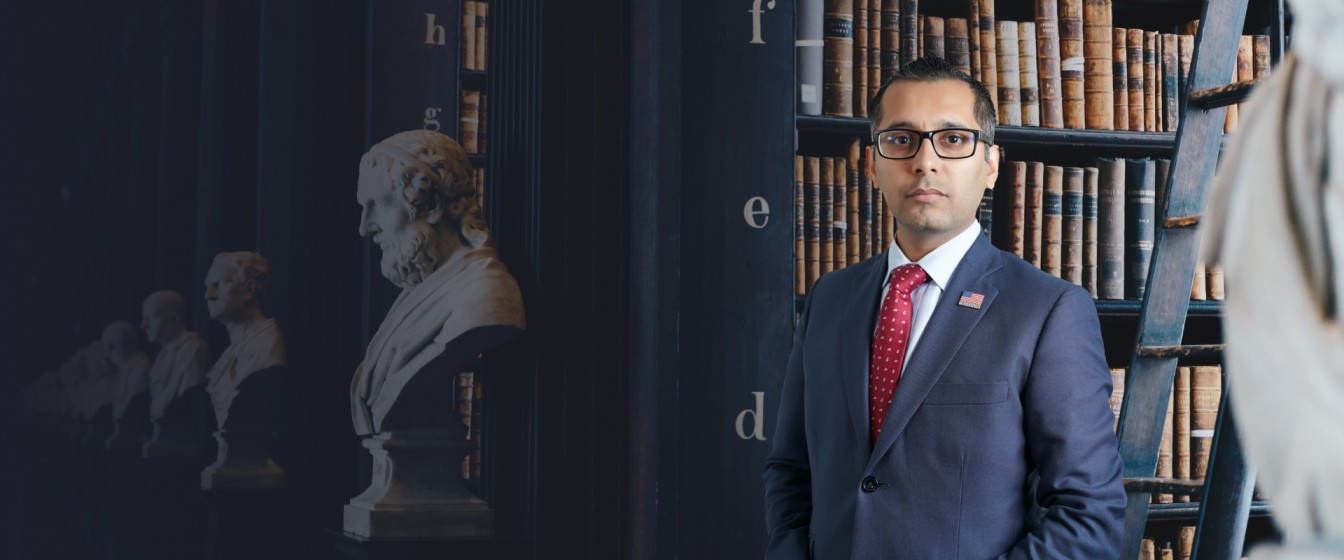
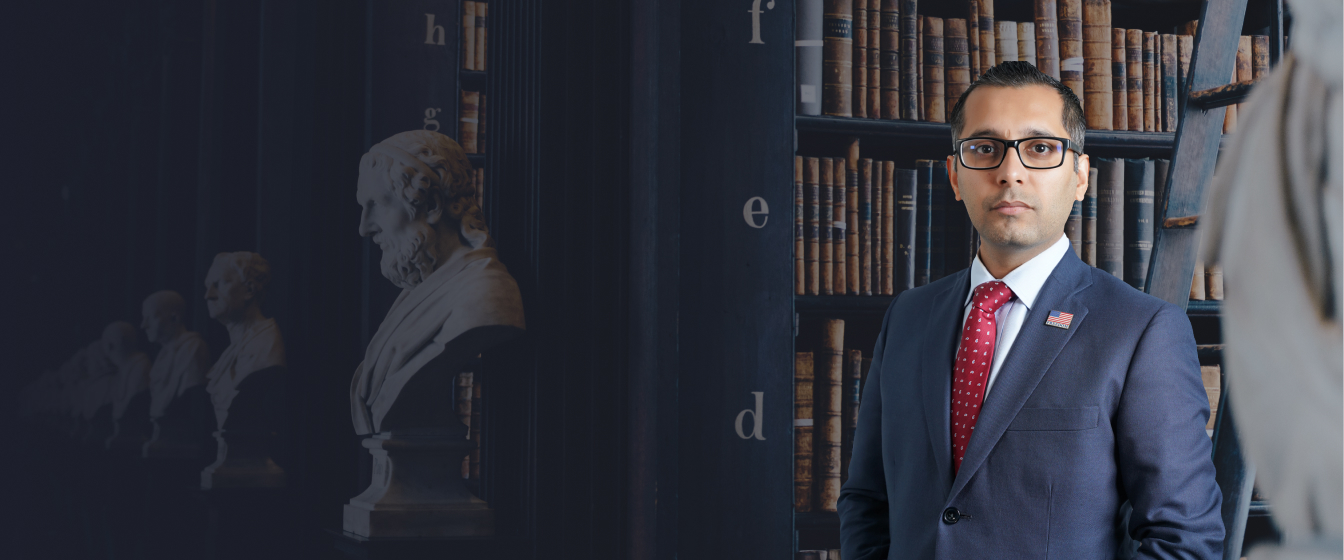
update home page

Changed region(s): [[0.5312, 0.0, 1.0, 1.0]]

diff --git a/components/about-us/AboutSection.jsx b/components/about-us/AboutSection.jsx
@@ -16,7 +16,7 @@ const AboutSection = () => {
   return (
     <div className='mt-5'>
       {/* Hardam Tripathi, Esq. */}
-      <div className='mb-[35%] md:mb-0'>
+      <div className='mb-[10%] md:mb-0'>
         <div className='relative h-[300px] lg:xl:h-[400px] xl:h-[500px] 2xl:h-[600px] md:overflow-hidden'>
           <Image
             src='/assets/about/triplaw.jpg'
@@ -56,32 +56,32 @@ const AboutSection = () => {
                       Immigration Lawyer
                     </p>
                     <hr class='h-[2px] my-0 bg-red-700 border-0 w-full'></hr>
-                    <div className='mt-8 flex flex-col md:flex-row items-center md:gap-28 gap-4 justify-center md:justify-start'>
+                    <div className='mt-8 flex flex-row items-center md:gap-28 gap-4 justify-center md:justify-start'>
                       <Link
                         href={'mailto:info@trip-law.com'}
-                        className='flex gap-3 items-center'
+                        className='flex gap-2 items-center'
                       >
-                        <MdEmail className='w-10 h-10 text-blue-600' />
-                        <p className='text-xl font-semibold text-center'>
+                        <MdEmail className='w-6 h-6 md:w-10 md:h-10 text-blue-600' />
+                        <p className='text-md md:text-xl font-semibold text-center'>
                           Email
                         </p>
                       </Link>
                       <Link
                         href={'/assets/vcard-info/hardam-tripathi.vcf'}
-                        className='flex gap-3 items-center'
+                        className='flex gap-2 items-center'
                       >
-                        <BsFillPersonVcardFill className='w-9 h-9 text-blue-600' />
-                        <p className='text-xl font-semibold text-center'>
+                        <BsFillPersonVcardFill className='w-5 h-5 md:w-9 md:h-9 text-blue-600' />
+                        <p className='text-md md:text-xl font-semibold text-center'>
                           VCard
                         </p>
                       </Link>
                       <Link
                         href={'https://www.linkedin.com/in/hardamtripathi'}
-                        className='flex md:flex-row gap-3 items-center'
+                        className='flex md:flex-row gap-2 items-center'
                         target='_blank'
                       >
-                        <FaLinkedin className='w-9 h-9 text-blue-600' />
-                        <p className='text-xl font-semibold text-center'>
+                        <FaLinkedin className='w-5 h-5 md:w-9 md:h-9 text-blue-600' />
+                        <p className='text-md md:text-xl font-semibold text-center'>
                           Connect
                         </p>
                       </Link>
@@ -184,7 +184,7 @@ const AboutSection = () => {
         </div>
       </SectionLayout>
       {/* Mukta Patel */}
-      <div className='mb-[35%] md:mb-0'>
+      <div className='mb-[10%] md:mb-0'>
         <div className='relative h-[300px] lg:xl:h-[400px] xl:h-[500px] 2xl:h-[600px] md:overflow-hidden'>
           <Image
             src='/assets/about/mukta-patel.jpg'
@@ -224,22 +224,22 @@ const AboutSection = () => {
                       Director of Legal Operation
                     </p>
                     <hr class='h-[2px] my-0 bg-red-700 border-0 w-full'></hr>
-                    <div className='mt-8 flex flex-col md:flex-row items-center md:gap-28 gap-4 justify-center md:justify-start'>
+                    <div className='mt-8 flex flex-row items-center md:gap-28 gap-4 justify-center md:justify-start'>
                       <Link
                         href={'mailto:info@trip-law.com'}
-                        className='flex gap-3 items-center'
+                        className='flex gap-2 items-center'
                       >
-                        <MdEmail className='w-10 h-10 text-blue-600' />
-                        <p className='text-xl font-semibold text-center'>
+                        <MdEmail className='w-6 h-6 md:w-10 md:h-10 text-blue-600' />
+                        <p className='text-md md:text-xl font-semibold text-center'>
                           Email
                         </p>
                       </Link>
                       <Link
                         href={'/assets/vcard-info/mukta-patel.vcf'}
-                        className='flex gap-3 items-center'
+                        className='flex gap-2 items-center'
                       >
-                        <BsFillPersonVcardFill className='w-9 h-9 text-blue-600' />
-                        <p className='text-xl font-semibold text-center'>
+                        <BsFillPersonVcardFill className='w-5 h-5 md:w-9 md:h-9 text-blue-600' />
+                        <p className='text-md md:text-xl font-semibold text-center'>
                           VCard
                         </p>
                       </Link>
@@ -248,10 +248,10 @@ const AboutSection = () => {
                           'https://www.linkedin.com/in/mukta-patel-b41067273'
                         }
                         target='_blank'
-                        className='flex md:flex-row gap-3 items-center'
+                        className='flex md:flex-row gap-2 items-center'
                       >
-                        <FaLinkedin className='w-9 h-9 text-blue-600' />
-                        <p className='text-xl font-semibold text-center'>
+                        <FaLinkedin className='w-5 h-5 md:w-9 md:h-9 text-blue-600' />
+                        <p className='text-md md:text-xl font-semibold text-center'>
                           Connect
                         </p>
                       </Link>
@@ -327,7 +327,7 @@ const AboutSection = () => {
         </div>
       </SectionLayout>
       {/* Arjo Neel */}
-      <div className='mb-[35%] md:mb-0'>
+      <div className='mb-[10%] md:mb-0'>
         <div className='relative h-[300px] lg:xl:h-[400px] xl:h-[500px] 2xl:h-[600px] md:overflow-hidden'>
           <Image
             src='/assets/about/arjo-neel.jpg'
@@ -367,32 +367,32 @@ const AboutSection = () => {
                       E2 & EB5 (Business Immigration Consultant)
                     </p>
                     <hr class='h-[2px] my-0 bg-red-700 border-0 w-full'></hr>
-                    <div className='mt-8 flex flex-col md:flex-row items-center md:gap-28 gap-4 justify-center md:justify-start'>
+                    <div className='mt-8 flex flex-row items-center md:gap-28 gap-4 justify-center md:justify-start'>
                       <Link
                         href={'mailto:info@trip-law.com'}
-                        className='flex gap-3 items-center'
+                        className='flex gap-2 items-center'
                       >
-                        <MdEmail className='w-10 h-10 text-blue-600' />
-                        <p className='text-xl font-semibold text-center'>
+                        <MdEmail className='w-6 h-6 md:w-10 md:h-10 text-blue-600' />
+                        <p className='text-md md:text-xl font-semibold text-center'>
                           Email
                         </p>
                       </Link>
                       <Link
                         href={'/assets/vcard-info/arjo-neel.vcf'}
-                        className='flex gap-3 items-center'
+                        className='flex gap-2 items-center'
                       >
-                        <BsFillPersonVcardFill className='w-9 h-9 text-blue-600' />
-                        <p className='text-xl font-semibold text-center'>
+                        <BsFillPersonVcardFill className='md:w-9 md:h-9 w-5 h-5 text-blue-600' />
+                        <p className='text-md md:text-xl font-semibold text-center'>
                           VCard
                         </p>
                       </Link>
                       <Link
                         href={'https://www.linkedin.com/in/arjoneel'}
                         target='_blank'
-                        className='flex md:flex-row gap-3 items-center'
+                        className='flex md:flex-row gap-2 items-center'
                       >
-                        <FaLinkedin className='w-9 h-9 text-blue-600' />
-                        <p className='text-xl font-semibold text-center'>
+                        <FaLinkedin className='w-5 h-5 md:w-9 md:h-9 text-blue-600' />
+                        <p className='text-md md:text-xl font-semibold text-center'>
                           Connect
                         </p>
                       </Link>
@@ -463,7 +463,7 @@ const AboutSection = () => {
         </div>
       </SectionLayout>
       {/* Sakawat Hossain */}
-      <div className='mb-[35%] md:mb-0'>
+      <div className='mb-[10%] md:mb-0'>
         <div className='relative h-[300px] lg:xl:h-[400px] xl:h-[500px] 2xl:h-[600px] md:overflow-hidden'>
           <Image
             src='/assets/about/sakawat-hossain.jpg'
@@ -503,23 +503,23 @@ const AboutSection = () => {
                       Associate Manager
                     </p>
                     <hr class='h-[2px] my-0 bg-red-700 border-0 w-full'></hr>
-                    <div className='mt-8 flex flex-col md:flex-row items-center md:gap-28 gap-4 justify-center md:justify-start'>
+                    <div className='mt-8 flex flex-row items-center md:gap-28 gap-4 justify-center md:justify-start'>
                       <Link
                         href={'mailto:info@trip-law.com'}
-                        className='flex gap-3 items-center'
+                        className='flex gap-2 items-center'
                       >
-                        <MdEmail className='w-10 h-10 text-blue-600' />
-                        <p className='text-xl font-semibold text-center'>
+                        <MdEmail className='w-6 h-6 md:w-10 md:h-10 text-blue-600' />
+                        <p className='text-md md:text-xl font-semibold text-center'>
                           Email
                         </p>
                       </Link>
                       <Link
                         href={'tel: +1 863-599-6735'}
-                        className='flex gap-3 items-center'
+                        className='flex gap-2 items-center'
                       >
-                        <RiCustomerService2Line className='w-10 h-10 text-blue-600' />
+                        <RiCustomerService2Line className='w-6 h-6 md:w-10 md:h-10 text-blue-600' />
 
-                        <p className='text-xl font-semibold text-center'>
+                        <p className='text-md md:text-xl font-semibold text-center'>
                           +1 863-599-6735
                         </p>
                       </Link>
@@ -579,7 +579,7 @@ const AboutSection = () => {
         </div>
       </SectionLayout>
       {/* Abrar Faisaal */}
-      <div className='mb-[35%] md:mb-0'>
+      <div className='mb-[10%] md:mb-0'>
         <div className='relative h-[300px] lg:xl:h-[400px] xl:h-[500px] 2xl:h-[600px] md:overflow-hidden'>
           <Image
             src='/assets/about/abrar-faisaal.jpg'
@@ -619,21 +619,23 @@ const AboutSection = () => {
                       Associate Paralegal
                     </p>
                     <hr class='h-[2px] my-0 bg-red-700 border-0 w-full'></hr>
-                    <div className='mt-8 flex flex-col md:flex-row items-center md:gap-28 gap-4 justify-center md:justify-start'>
+                    <div className='mt-8 flex flex-row items-center md:gap-28 gap-4 justify-center md:justify-start'>
                       <Link
                         href={'mailto:info@trip-law.com'}
-                        className='flex gap-3 items-center'
+                        className='flex gap-2 items-center'
                       >
-                        <MdEmail className='w-10 h-10 text-blue-600 mt-2' />
-                        <p className='text-md font-medium text-center'>Email</p>
+                        <MdEmail className='w-6 h-6 md:w-10 md:h-10 text-blue-600' />
+                        <p className='text-md md:text-xl font-semibold text-center'>
+                          Email
+                        </p>
                       </Link>
                       <Link
                         href={'tel: +1 863-599-6735'}
-                        className='flex gap-3 items-center'
+                        className='flex gap-2 items-center'
                       >
-                        <RiCustomerService2Line className='w-10 h-10 text-blue-600' />
+                        <RiCustomerService2Line className='w-6 h-6 md:w-10 md:h-10 text-blue-600' />
 
-                        <p className='text-xl font-semibold text-center'>
+                        <p className='text-md md:text-xl font-semibold text-center'>
                           +1 863-599-6735
                         </p>
                       </Link>

diff --git a/components/home/HeroSection.jsx b/components/home/HeroSection.jsx
@@ -16,15 +16,15 @@ const HeroSection = () => {
   const text = 'Hardam Tripathi, Esq.'.split(' ');
 
   return (
-    <div className='relative mt-[70px]'>
-      <div className='relative h-[500px] md:h-[800px]'>
+    <div className='relative mt-[70px] md:overflow-hidden'>
+      <div className='relative h-auto md:h-[800px]'>
         <Image
           src='/assets/home/trip-low-hero-bg.jpg'
           alt='home-banner'
-          layout='fill'
-          objectFit='cover'
+          width={1200}
+          height={800}
           priority
-          className='z-10'
+          className='w-full'
           rel='preload'
         />
 
@@ -36,22 +36,22 @@ const HeroSection = () => {
           variants={{ visible: { transition: { staggerChildren: 0.3 } } }}
         >
           <SectionLayout>
-            <div className='grid grid-cols-1 md:grid-cols-3 items-center'>
+            <div className='grid grid-cols-3 items-center'>
               <div className='col-span-2'>
                 <motion.h2
                   variants={variants}
-                  className='text-red-700 font-black text-[20px] md:text-3xl text-center md:text-left'
+                  className='text-red-700 font-black text-[12px] md:text-3xl text-left'
                 >
                   Giving You Advices That Matters
                 </motion.h2>
-                <div className='flex justify-center md:justify-start'>
+                <div className='flex justify-start'>
                   <motion.hr
                     variants={variants}
                     className='h-[2px] my-2 bg-red-700 border-0 w-20'
                   />
                 </div>
                 <h1
-                  className={`text-[50px] md:text-[90px] font-[800] text-white text-center md:text-left leading-tight tracking-normal ${bitter.className}`}
+                  className={`text-[20px] md:text-[90px] font-[800] text-white text-left leading-tight tracking-normal ${bitter.className}`}
                 >
                   {text.map((word, index) => (
                     <motion.span
@@ -66,23 +66,23 @@ const HeroSection = () => {
                 </h1>
                 <motion.p
                   variants={variants}
-                  className='text-white text-sm md:text-lg max-w-[450px] mt-4 md:mt-5 text-center md:text-left'
+                  className='text-white text-[7px] md:text-lg max-w-[450px] mt-1 md:mt-5 text-left'
                 >
                   Connecting Families To Their Immigration Dream
                 </motion.p>
                 <motion.div
                   variants={variants}
-                  className='mt-6 md:mt-8 flex justify-center md:justify-start'
+                  className='mt-2 md:mt-8 flex justify-start'
                 >
                   <Link
-                    className='text-white bg-red-700 hover:bg-red-800 font-medium text-base md:text-lg px-3 md:px-8 py-2.5 me-3 md:me-6 mb-2 uppercase'
+                    className='text-white bg-red-700 hover:bg-red-800 font-medium text-[6px] md:text-lg px-2 md:px-8 py-2 me-3 md:me-6 mb-2 uppercase items-center justify-center flex'
                     href='/appointment'
                   >
                     Consultation
                   </Link>
                   <Link
                     href={'tel:(863)-599-6735'}
-                    className='text-white bg-none hover:bg-red-800 font-medium text-base md:text-lg px-3 md:px-8 py-2.5 me-0 md:me-6 mb-2 border border-white'
+                    className='text-white bg-none hover:bg-red-800 font-medium text-[6px] md:text-lg px-2 md:px-8 py-2 me-0 md:me-6 mb-2 border border-white items-center justify-center flex'
                   >
                     (863)-599-6735
                   </Link>
